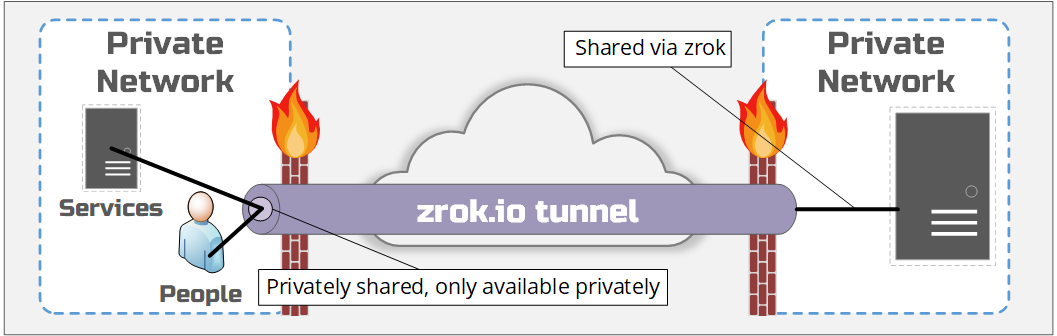
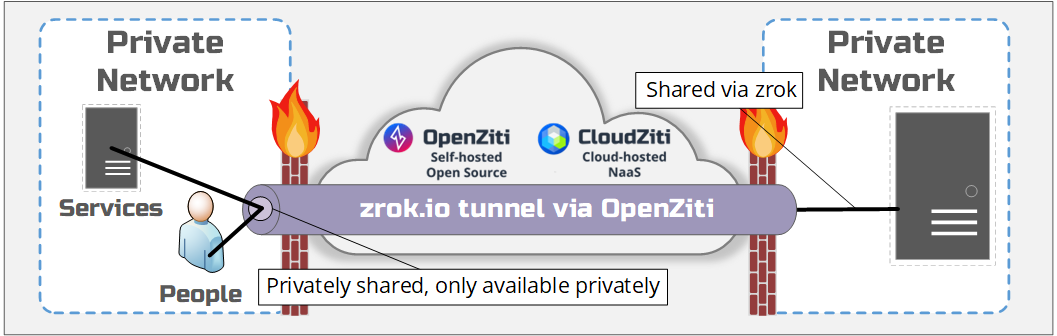
update images and getting started

diff --git a/docs/getting-started.md b/docs/getting-started.md
@@ -3,32 +3,30 @@ sidebar_position: 0
 ---
 # Getting Started with zrok
 
+`zrok` is an open source, Apache v2 licensed sharing platform, built on top of [OpenZiti](https://docs.openziti.io/docs/learn/introduction/), 
+a programmable zero trust network overlay. `zrok` is an _OpenZiti Native Application_. You can choose to self-host `zrok`
+or leverage the free, managed offering provided by NetFoundry: https://zrok.io
+
+As of version `v0.3.0`, `zrok` provides the ability to:
+
+* share resources [publicly](./core-features/sharing-public.md), similar to other distributed reverse proxies.
+* share [privately](./core-features/sharing-private.md). It does this by leveraging
+  [OpenZiti](https://docs.openziti.io/docs/learn/introduction/) to support zero trust, peer to peer connections without
+  the need for any open ports on the internet.
+* use `web` sharing; easily share files with others using a single `zrok` command
+
+Let's take a look at how to get started with `zrok`.
+
 :::note `zrok` moves fast!
 
 `zrok` is currently in a closed-beta phase and requires an invitation token. If you would like to try `zrok` and provide
 feedback, please send an email to help@openziti.org. `zrok` is an open source project and is in its early development
 phases. We're doing our development publicly. See the [roadmap](https://github.com/orgs/openziti/projects/16) for details
-about the project. We are highly interested in feedback as we continue to iterate quickly. Please provide feedback in 
-[Discourse](https://openziti.discourse.group/), raise [GitHub Issues](https://github.com/openziti/zrok/issues), or reach 
+about the project. We are highly interested in feedback as we continue to iterate quickly. Please provide feedback in
+[Discourse](https://openziti.discourse.group/), raise [GitHub Issues](https://github.com/openziti/zrok/issues), or reach
 out directly.
 
 :::
-
-`zrok` is an open source, Apache v2 licensed sharing platform, built on top of [OpenZiti](https://docs.openziti.io/docs/learn/introduction/), 
-a programmable zero trust network overlay. `zrok` is an _OpenZiti Native Application_.
-
-`zrok` facilitates sharing [publicly](./core-features/sharing-public.md), similar to other distributed reverse proxies. 
-But `zrok` __also__ supports sharing [privately](./core-features/sharing-private.md). It does this by leveraging 
-[OpenZiti](https://docs.openziti.io/docs/learn/introduction/) to support zero trust, peer to peer connections without
-the need for any open ports on the internet.
-
-
-As of version `v0.3.0`, `zrok` provides users the ability to publicly proxy local HTTP endpoints (similar to other offerings in this space). Additionally, `zrok` provides the ability to:
-
-* _privately_ share resources with other `zrok` users; in _private_ usage scenarios, your private resources are not exposed to any public endpoints, and all communication is securely and privately transported between `zrok` clients
-* use `web` sharing; easily share files with others using a single `zrok` command
-
-Let's take a look at how to get started with `zrok`.
 
 ## Downloading zrok
 
